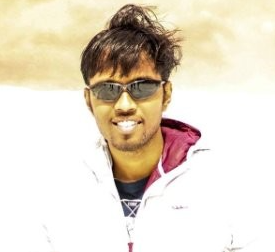
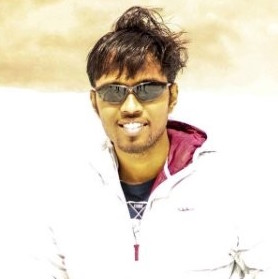
Image reposition- description

diff --git a/index.html b/index.html
@@ -72,7 +72,7 @@
                     <h2>What we do</h2>
                 </header>
                 <p> AlgoSurg&reg; team has developed a web-based software for surgeons to simulate bone surgeries in 3D and to get 3D printable surgical-tool design; automatically, within minutes and specific to patient.
-                <br> Our goal is to make surgeries accurate, faster, cost-effective and efficient using automation and enhanced visualization. Virtual 3D surgery simulation is the way to get there.
+                <br> Our solutions make surgeries accurate, faster, cost-effective and efficient using automation and enhanced visualization. Automation is the future of surgeries and virtual 3D surgery simulation is the way to get there.
                 <br><br>Here is our Y-combinator demo-day pitch.
                 </p>
                 <div class="youtube">
